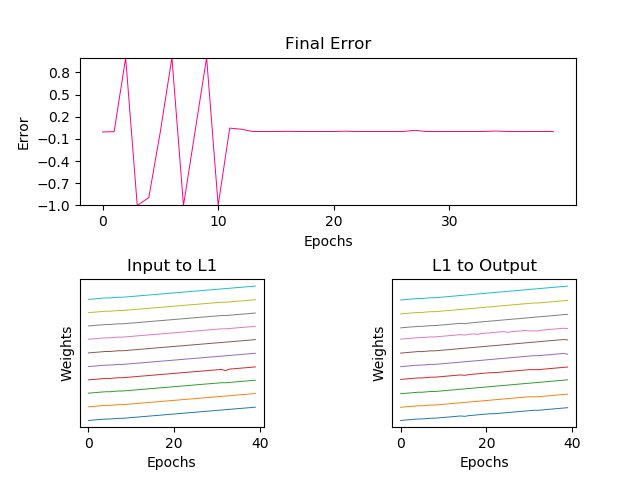
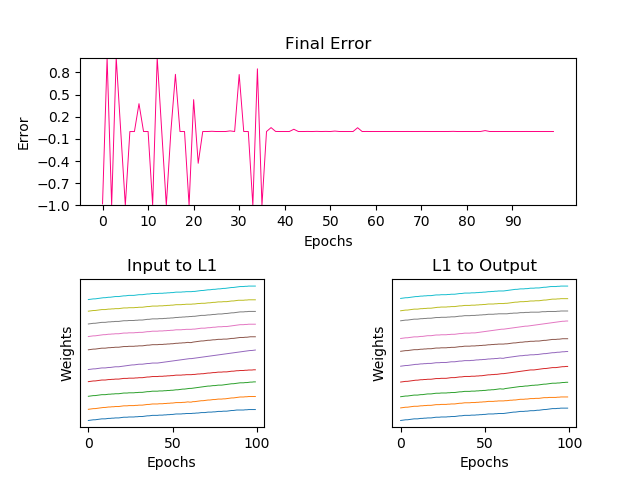
check runs good

diff --git a/src/main.cpp b/src/main.cpp
@@ -28,7 +28,7 @@ std::ostream& operator<<(std::ostream& sortie, const Matrice& matrice)
 int main()
 {
 	try{
-		Network net(40, 0.5);
+		Network net(100, 0.35);
 		net.generateTrainingDataSet();
 		net.run();
 	}
